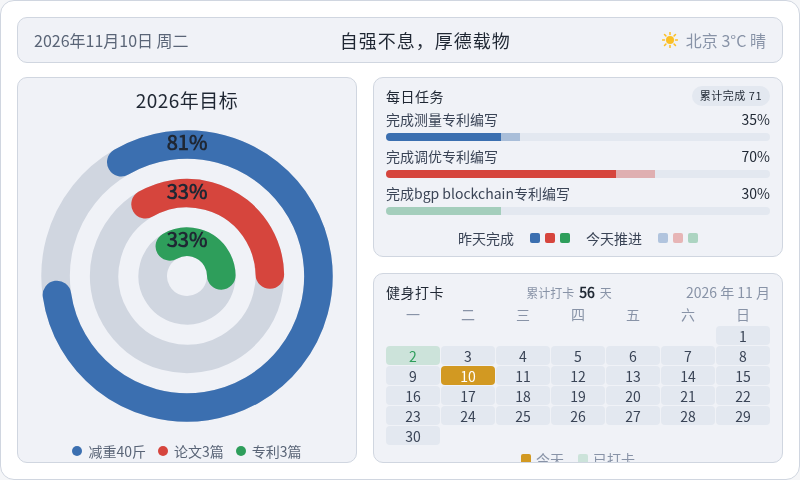
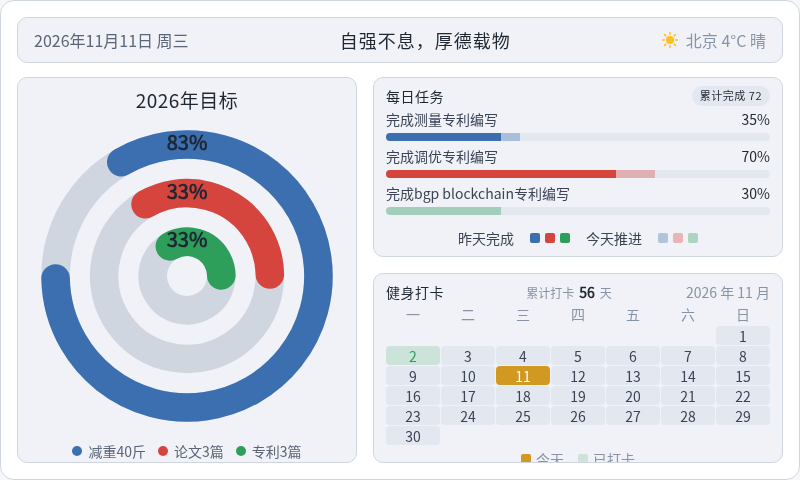
chore: 每日看板刷新 2026-11-11

diff --git a/output/dashboard/dashboard.html b/output/dashboard/dashboard.html
@@ -185,11 +185,11 @@
 <body>
   <div class="dash">
     <div class="topbar">
-      <div class="tb-date" id="tbDate">2026年11月10日 周二</div>
+      <div class="tb-date" id="tbDate">2026年11月11日 周三</div>
       <div class="tb-slogan">自强不息，厚德载物</div>
       <div class="tb-weather">
         <svg width="16" height="16" viewBox="0 0 16 16" aria-hidden="true"><circle cx="8" cy="8" r="4" fill="#fbbf24"/><g stroke="#fbbf24" stroke-width="1.5" stroke-linecap="round"><line x1="8" y1="0.5" x2="8" y2="2.5"/><line x1="8" y1="13.5" x2="8" y2="15.5"/><line x1="0.5" y1="8" x2="2.5" y2="8"/><line x1="13.5" y1="8" x2="15.5" y2="8"/><line x1="2.5" y1="2.5" x2="3.9" y2="3.9"/><line x1="12.1" y1="12.1" x2="13.5" y2="13.5"/><line x1="13.5" y1="2.5" x2="12.1" y2="3.9"/><line x1="3.9" y1="12.1" x2="2.5" y2="13.5"/></g></svg>
-        <span>北京 3°C 晴</span>
+        <span>北京 4°C 晴</span>
       </div>
     </div>
     <div class="content">
@@ -200,9 +200,9 @@
           <svg viewBox="0 0 210 210" width="300" height="300" role="img" aria-label="三环进度仪表盘">
             <title>2026年目标三环进度</title>
             <g transform="rotate(-120 105 105)">
-              <circle cx="105" cy="105" r="92" fill="none" stroke="#d0d6e0" stroke-width="20"/><circle cx="105" cy="105" r="92" fill="none" stroke="#3b6fb0" stroke-width="20" stroke-linecap="round" stroke-dasharray="468.22 578.05"/><circle cx="105" cy="105" r="58" fill="none" stroke="#d0d6e0" stroke-width="20"/><circle cx="105" cy="105" r="58" fill="none" stroke="#d6453d" stroke-width="20" stroke-linecap="round" stroke-dasharray="120.26 364.42"/><circle cx="105" cy="105" r="24" fill="none" stroke="#d0d6e0" stroke-width="20"/><circle cx="105" cy="105" r="24" fill="none" stroke="#2e9e5b" stroke-width="20" stroke-linecap="round" stroke-dasharray="49.76 150.80"/>
+              <circle cx="105" cy="105" r="92" fill="none" stroke="#d0d6e0" stroke-width="20"/><circle cx="105" cy="105" r="92" fill="none" stroke="#3b6fb0" stroke-width="20" stroke-linecap="round" stroke-dasharray="479.78 578.05"/><circle cx="105" cy="105" r="58" fill="none" stroke="#d0d6e0" stroke-width="20"/><circle cx="105" cy="105" r="58" fill="none" stroke="#d6453d" stroke-width="20" stroke-linecap="round" stroke-dasharray="120.26 364.42"/><circle cx="105" cy="105" r="24" fill="none" stroke="#d0d6e0" stroke-width="20"/><circle cx="105" cy="105" r="24" fill="none" stroke="#2e9e5b" stroke-width="20" stroke-linecap="round" stroke-dasharray="49.76 150.80"/>
             </g>
-            <text x="105" y="13" text-anchor="middle" dominant-baseline="middle" fill="#1f2733" font-size="14" font-weight="700">81%</text><text x="105" y="47" text-anchor="middle" dominant-baseline="middle" fill="#1f2733" font-size="14" font-weight="700">33%</text><text x="105" y="81" text-anchor="middle" dominant-baseline="middle" fill="#1f2733" font-size="14" font-weight="700">33%</text>
+            <text x="105" y="13" text-anchor="middle" dominant-baseline="middle" fill="#1f2733" font-size="14" font-weight="700">83%</text><text x="105" y="47" text-anchor="middle" dominant-baseline="middle" fill="#1f2733" font-size="14" font-weight="700">33%</text><text x="105" y="81" text-anchor="middle" dominant-baseline="middle" fill="#1f2733" font-size="14" font-weight="700">33%</text>
           </svg>
         </div>
         <div class="legend"><div class="legend-row"><span class="dot" style="background:#3b6fb0"></span><span class="lg-name">减重40斤</span></div><div class="legend-row"><span class="dot" style="background:#d6453d"></span><span class="lg-name">论文3篇</span></div><div class="legend-row"><span class="dot" style="background:#2e9e5b"></span><span class="lg-name">专利3篇</span></div></div>
@@ -210,7 +210,7 @@
     </div>
     <div class="col-right">
       <div class="panel tasks-panel">
-        <div class="panel-title" style="color:#1f2733">每日任务<span class="task-done-count">累计完成  71</span></div>
+        <div class="panel-title" style="color:#1f2733">每日任务<span class="task-done-count">累计完成  72</span></div>
         <div class="task">
           <div class="task-head"><span style="color:#3a4456">完成测量专利编写</span><span class="task-val" style="color:#1f2733">35%</span></div>
           <div class="bar">
@@ -248,7 +248,7 @@
           <span class="cal-date">2026 年 11 月</span>
         </div>
         <div class="cal-grid wk"><span>一</span><span>二</span><span>三</span><span>四</span><span>五</span><span>六</span><span>日</span></div>
-        <div class="cal-grid"><span class="cell empty"></span><span class="cell empty"></span><span class="cell empty"></span><span class="cell empty"></span><span class="cell empty"></span><span class="cell empty"></span><span class="cell" style="background:#e3e8f0;color:#3a4456">1</span><span class="cell done" style="background:rgba(46,158,91,0.18);color:#2e9e5b">2</span><span class="cell" style="background:#e3e8f0;color:#3a4456">3</span><span class="cell" style="background:#e3e8f0;color:#3a4456">4</span><span class="cell" style="background:#e3e8f0;color:#3a4456">5</span><span class="cell" style="background:#e3e8f0;color:#3a4456">6</span><span class="cell" style="background:#e3e8f0;color:#3a4456">7</span><span class="cell" style="background:#e3e8f0;color:#3a4456">8</span><span class="cell" style="background:#e3e8f0;color:#3a4456">9</span><span class="cell today" style="background:#d29922;color:#ffffff">10</span><span class="cell" style="background:#e3e8f0;color:#3a4456">11</span><span class="cell" style="background:#e3e8f0;color:#3a4456">12</span><span class="cell" style="background:#e3e8f0;color:#3a4456">13</span><span class="cell" style="background:#e3e8f0;color:#3a4456">14</span><span class="cell" style="background:#e3e8f0;color:#3a4456">15</span><span class="cell" style="background:#e3e8f0;color:#3a4456">16</span><span class="cell" style="background:#e3e8f0;color:#3a4456">17</span><span class="cell" style="background:#e3e8f0;color:#3a4456">18</span><span class="cell" style="background:#e3e8f0;color:#3a4456">19</span><span class="cell" style="background:#e3e8f0;color:#3a4456">20</span><span class="cell" style="background:#e3e8f0;color:#3a4456">21</span><span class="cell" style="background:#e3e8f0;color:#3a4456">22</span><span class="cell" style="background:#e3e8f0;color:#3a4456">23</span><span class="cell" style="background:#e3e8f0;color:#3a4456">24</span><span class="cell" style="background:#e3e8f0;color:#3a4456">25</span><span class="cell" style="background:#e3e8f0;color:#3a4456">26</span><span class="cell" style="background:#e3e8f0;color:#3a4456">27</span><span class="cell" style="background:#e3e8f0;color:#3a4456">28</span><span class="cell" style="background:#e3e8f0;color:#3a4456">29</span><span class="cell" style="background:#e3e8f0;color:#3a4456">30</span></div>
+        <div class="cal-grid"><span class="cell empty"></span><span class="cell empty"></span><span class="cell empty"></span><span class="cell empty"></span><span class="cell empty"></span><span class="cell empty"></span><span class="cell" style="background:#e3e8f0;color:#3a4456">1</span><span class="cell done" style="background:rgba(46,158,91,0.18);color:#2e9e5b">2</span><span class="cell" style="background:#e3e8f0;color:#3a4456">3</span><span class="cell" style="background:#e3e8f0;color:#3a4456">4</span><span class="cell" style="background:#e3e8f0;color:#3a4456">5</span><span class="cell" style="background:#e3e8f0;color:#3a4456">6</span><span class="cell" style="background:#e3e8f0;color:#3a4456">7</span><span class="cell" style="background:#e3e8f0;color:#3a4456">8</span><span class="cell" style="background:#e3e8f0;color:#3a4456">9</span><span class="cell" style="background:#e3e8f0;color:#3a4456">10</span><span class="cell today" style="background:#d29922;color:#ffffff">11</span><span class="cell" style="background:#e3e8f0;color:#3a4456">12</span><span class="cell" style="background:#e3e8f0;color:#3a4456">13</span><span class="cell" style="background:#e3e8f0;color:#3a4456">14</span><span class="cell" style="background:#e3e8f0;color:#3a4456">15</span><span class="cell" style="background:#e3e8f0;color:#3a4456">16</span><span class="cell" style="background:#e3e8f0;color:#3a4456">17</span><span class="cell" style="background:#e3e8f0;color:#3a4456">18</span><span class="cell" style="background:#e3e8f0;color:#3a4456">19</span><span class="cell" style="background:#e3e8f0;color:#3a4456">20</span><span class="cell" style="background:#e3e8f0;color:#3a4456">21</span><span class="cell" style="background:#e3e8f0;color:#3a4456">22</span><span class="cell" style="background:#e3e8f0;color:#3a4456">23</span><span class="cell" style="background:#e3e8f0;color:#3a4456">24</span><span class="cell" style="background:#e3e8f0;color:#3a4456">25</span><span class="cell" style="background:#e3e8f0;color:#3a4456">26</span><span class="cell" style="background:#e3e8f0;color:#3a4456">27</span><span class="cell" style="background:#e3e8f0;color:#3a4456">28</span><span class="cell" style="background:#e3e8f0;color:#3a4456">29</span><span class="cell" style="background:#e3e8f0;color:#3a4456">30</span></div>
         <div class="cal-legend">
           <span style="color:#8893a7"><i class="sw" style="background:#d29922"></i>今天</span>
           <span style="color:#8893a7"><i class="sw" style="background:rgba(46,158,91,0.18)"></i>已打卡</span>
